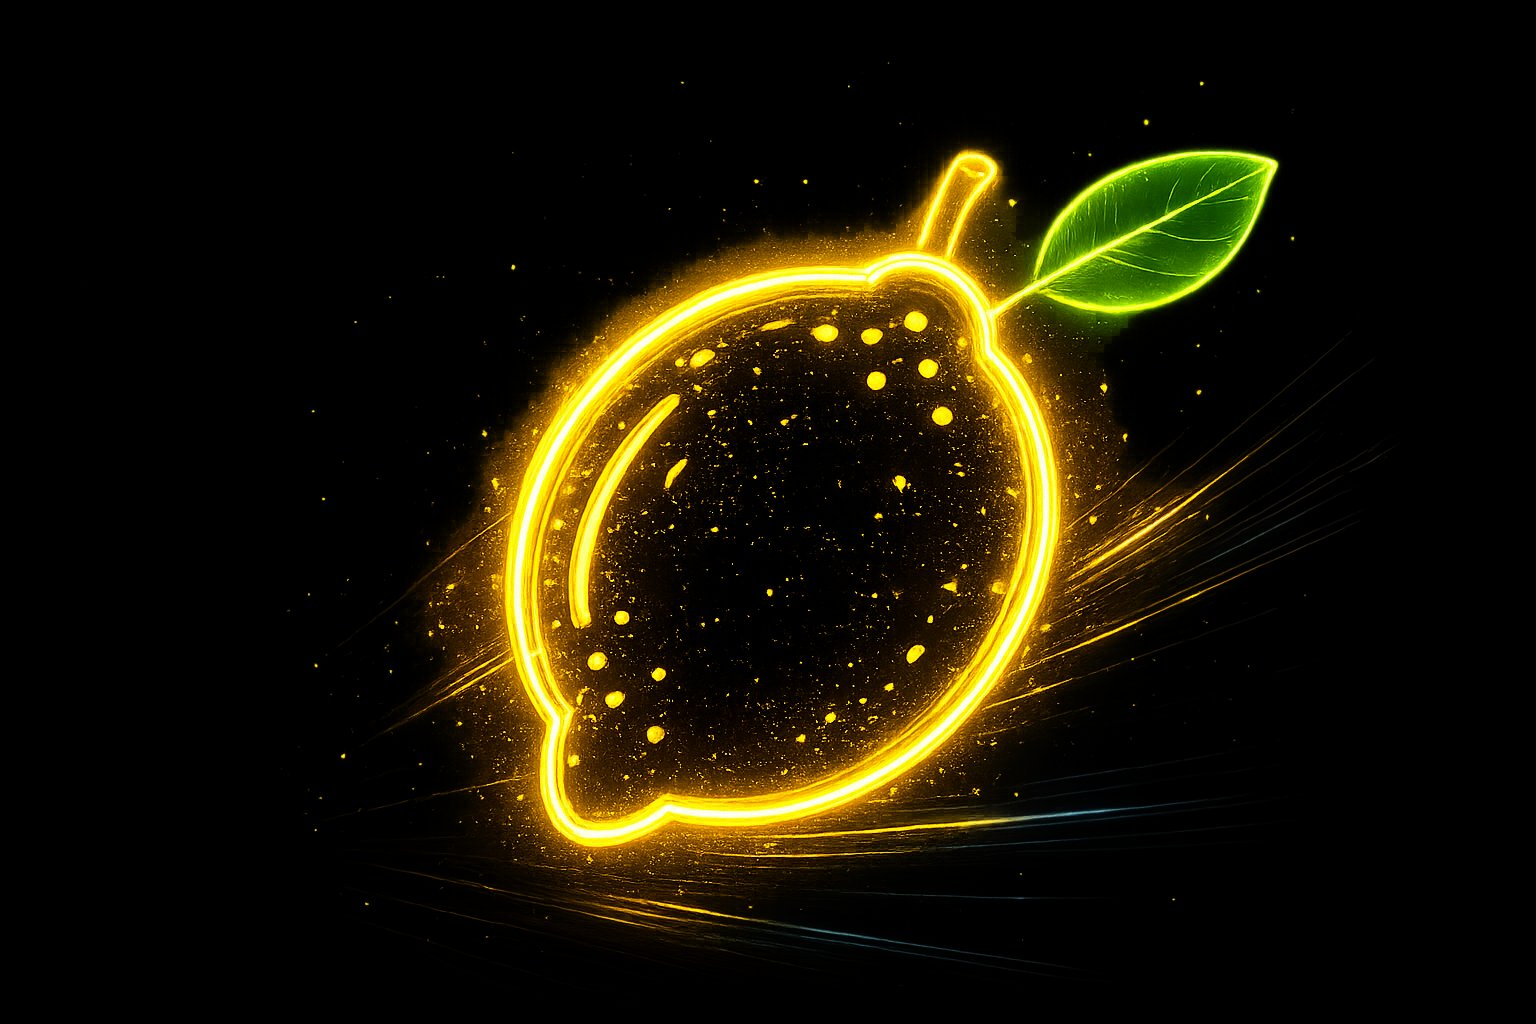
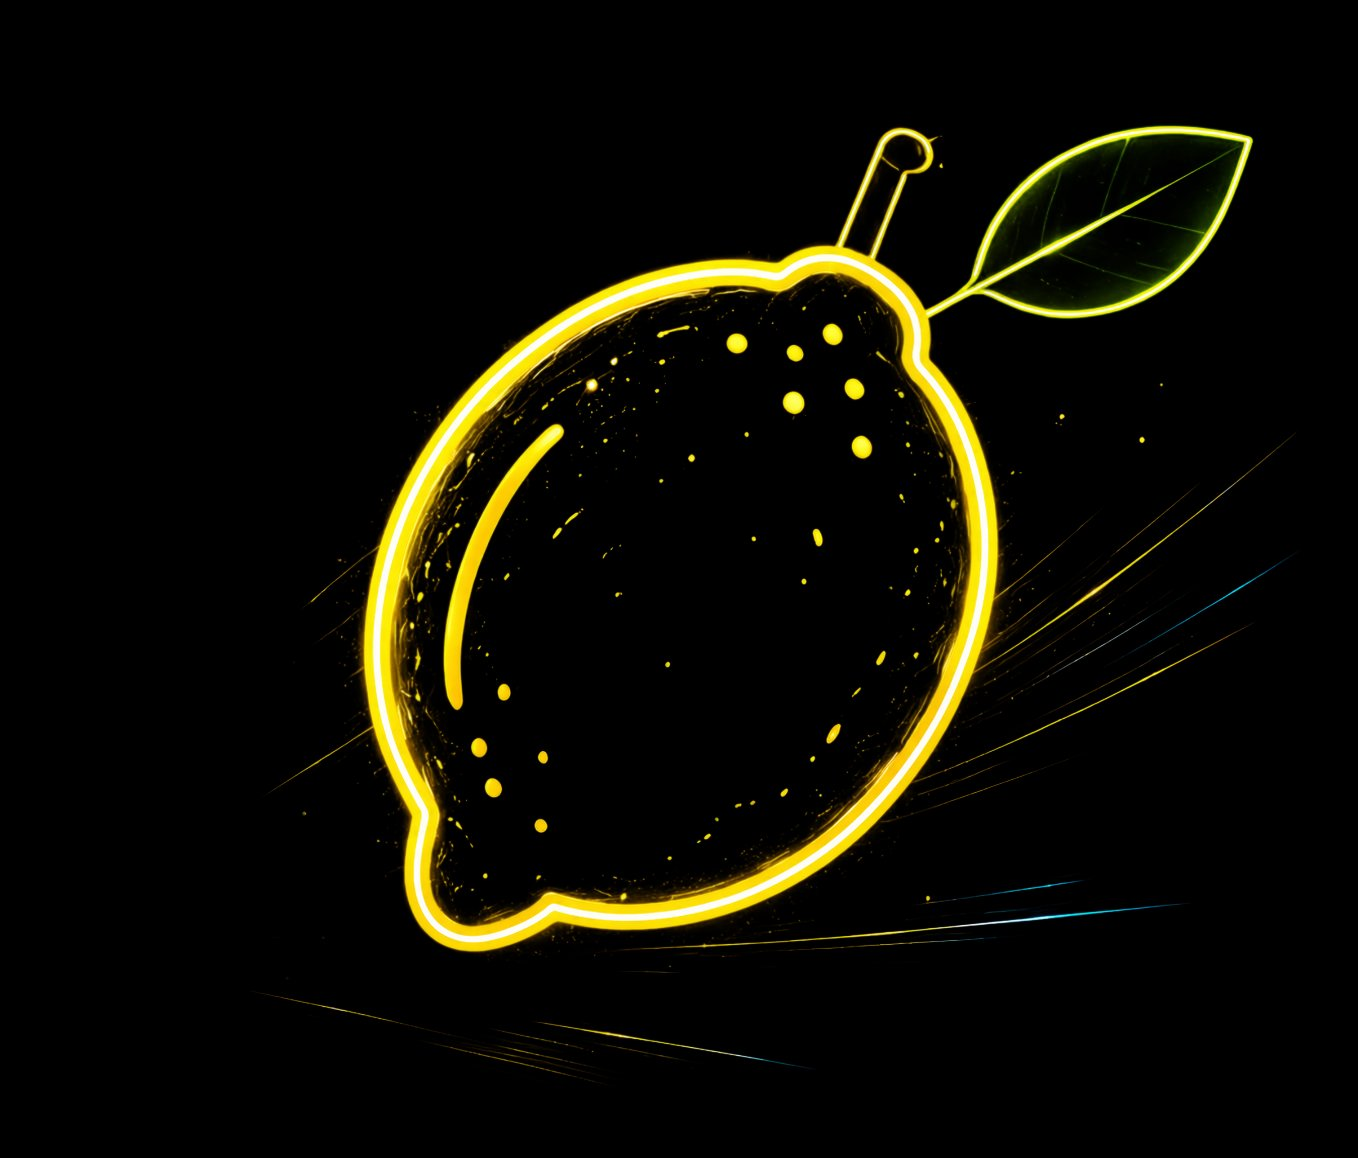
fix: quitar marco negro del limon neon

Changed region(s): [[0.2474, 0.0938, 0.9278, 0.9375], [0.8351, 0.5625, 0.866, 0.5938], [0.5258, 0.9062, 0.5567, 0.9375]]

diff --git a/index.html b/index.html
@@ -154,14 +154,14 @@
 
       <!-- DERECHA: Limón neón real -->
       <div class="order-1 lg:order-2 flex items-center justify-center reveal" data-delay="1">
-        <div class="relative" style="width:min(500px,90vw);">
-          <!-- Glow de fondo -->
-          <div class="absolute inset-0 rounded-full pointer-events-none" style="background:radial-gradient(circle at 50% 50%,rgba(244,196,48,0.25) 0%,rgba(244,196,48,0.08) 50%,transparent 75%);transform:scale(1.15);filter:blur(30px);"></div>
+        <div class="relative" style="width:min(560px,95vw);">
+          <!-- Glow radial amarillo de fondo -->
+          <div class="absolute inset-0 pointer-events-none" style="background:radial-gradient(circle at 50% 50%,rgba(244,196,48,0.35) 0%,rgba(244,196,48,0.12) 35%,transparent 65%);transform:scale(1.3);"></div>
           <img
             src="/images/limon-neon.png"
             alt="Limón neón Limonada Web"
             class="relative z-10 w-full h-auto"
-            style="mix-blend-mode:screen;filter:drop-shadow(0 0 60px rgba(244,196,48,0.6)) drop-shadow(0 0 20px rgba(244,196,48,0.4));"
+            style="mix-blend-mode:screen;"
             loading="eager"
           >
         </div>